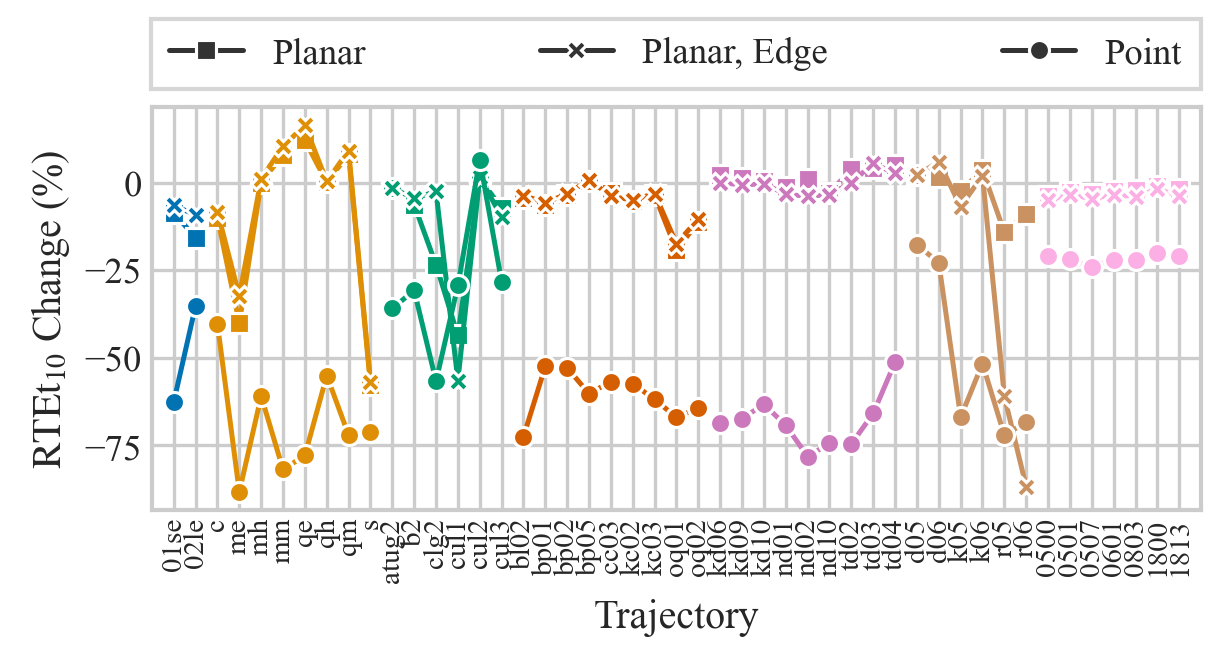
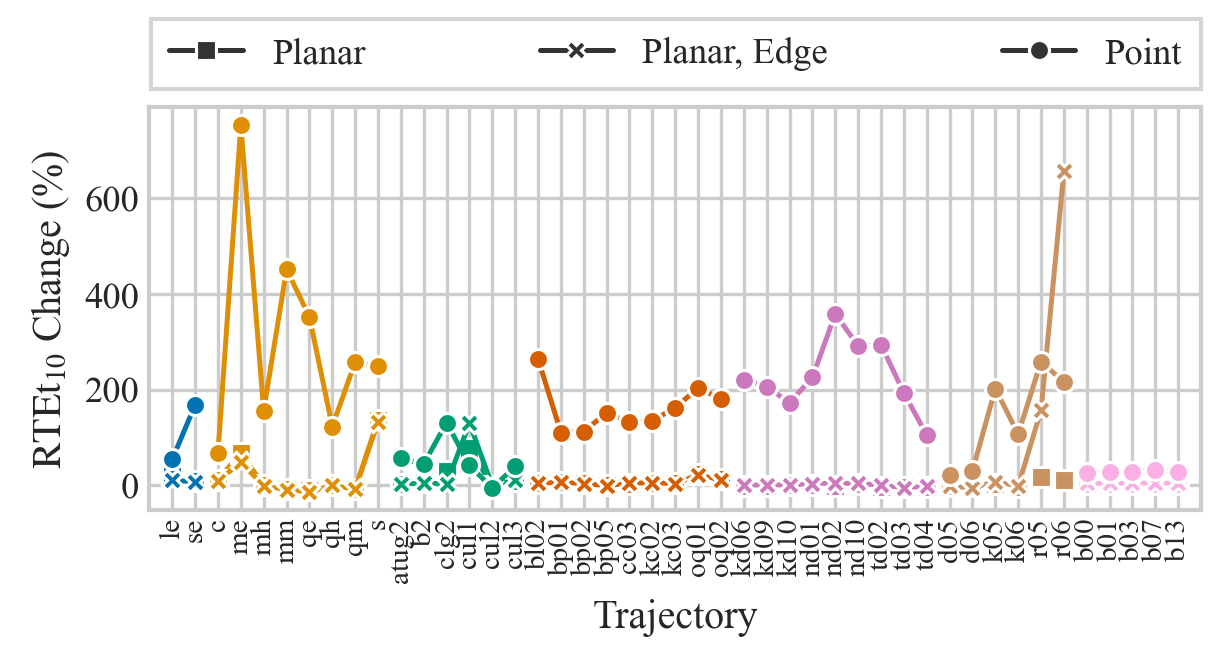
Finish rerunning everything - dewarping helipr looks off

Changed region(s): [[0.0617, 0.1499, 0.9878, 0.8696], [0.4939, 0.8996, 0.6174, 0.9595]]

diff --git a/experiments/init.py b/experiments/init.py
@@ -3,7 +3,7 @@ import matplotlib.pyplot as plt
 from itertools import product
 
 from lidar_eval.params import ExperimentParams, Feature, Initialization
-from lidar_eval.run import run_multithreaded
+from lidar_eval.run_init import run_multithreaded
 from lidar_eval.stats import compute_cache_stats, eval
 from env import (
     INC_DATA_DIR,
@@ -16,7 +16,7 @@ from env import (
     setup_plot,
 )
 
-dir = RESULTS_DIR / "25.03.03_init"
+dir = RESULTS_DIR / "25.07.08_init"
 
 
 def run(num_threads: int):

diff --git a/experiments/plane_plane.py b/experiments/plane_plane.py
@@ -18,7 +18,7 @@ from env import (
 )
 
 # ------------------------- Everything to sweep over ------------------------- #
-dir = RESULTS_DIR / "25.02.24_plane_plane_test_removal"
+dir = RESULTS_DIR / "25.07.08_plane_plane"
 
 
 def run(num_threads: int):

diff --git a/experiments/pseudo.py b/experiments/pseudo.py
@@ -20,7 +20,7 @@ from env import (
     setup_plot,
 )
 
-dir = RESULTS_DIR / "25.02.25_pseudo_plane"
+dir = RESULTS_DIR / "25.07.09_pseudo_plane"
 
 
 def run(num_threads: int):

diff --git a/experiments/features.py b/experiments/features.py
@@ -17,7 +17,7 @@ from env import (
     setup_plot,
 )
 
-dir = RESULTS_DIR / "25.02.25_features"
+dir = RESULTS_DIR / "25.07.09_features"
 
 
 def run(num_threads: int):

diff --git a/experiments/dewarp.py b/experiments/dewarp.py
@@ -17,7 +17,7 @@ from env import (
     setup_plot,
 )
 
-dir = RESULTS_DIR / "25.02.25_dewarp"
+dir = RESULTS_DIR / "25.07.09_dewarp"
 
 
 def run(num_threads: int):

diff --git a/experiments/curvature.py b/experiments/curvature.py
@@ -25,7 +25,7 @@ Changelog
 
 """
 
-dir = RESULTS_DIR / "25.02.25_rand"
+dir = RESULTS_DIR / "25.07.08_curvature"
 
 
 def run(num_threads: int):
